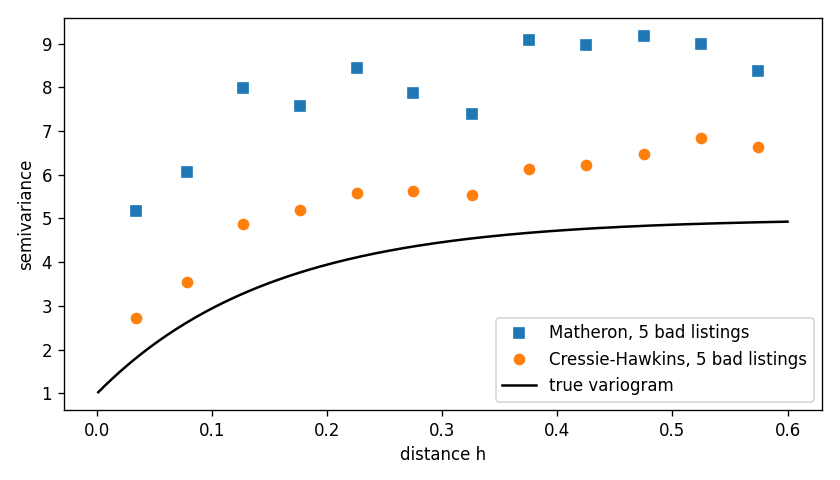
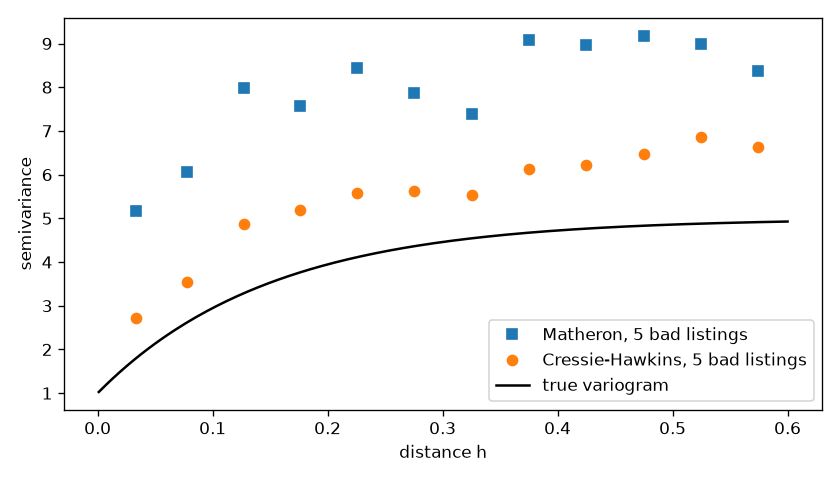
chapter 3 reviwed

diff --git a/spatial-data-analysis/current/chapters/ch03_empirical_variography.md b/spatial-data-analysis/current/chapters/ch03_empirical_variography.md
@@ -237,7 +237,7 @@ At short distances the north-south variogram is higher: 2.76 against 1.52 in the
 
 Two refinements are worth knowing.
 
-- **The rose diagram.** Computing directional variograms in many directions and recording, for each direction, the distance at which the variogram reaches a fixed level gives a set of points that, under geometric anisotropy, lie on an ellipse. Plotting them (often as a "rose" around the origin) shows the directions of longest and shortest reach, which are the eigenvectors of $\mathbf{G}$ in Section 2.6. Exercise 10 builds one.
+- **The rose diagram.** Computing directional variograms in many directions and recording, for each direction, the distance at which the variogram reaches a fixed level gives a set of points that, under geometric anisotropy, lie on an ellipse. Plotting them (often as a "rose" around the origin) shows the directions of longest and shortest reach, which are the eigenvectors of $\mathbf{G}$ in Section 2.6. Exercise 15 builds one.
 - **Zonal anisotropy.** Geometric anisotropy changes how fast the variogram rises in each direction but not the sill it reaches. Sometimes the sills themselves differ. If rents vary by neighborhood across the river but are similar for long stretches along it, the north-south variogram may keep climbing to a higher level than the east-west one. That is **zonal anisotropy**, and it cannot be produced by stretching coordinates. It is usually modeled by adding a second process that varies in one direction only (Exercise 7).
 
 ---
@@ -478,7 +478,7 @@ for name, wt in (("OLS", False), ("WLS", True)):
 | Cressie's weighted least squares | 3.919 | 1.342 | 0.186 |
 | Truth | 4 | 1 | 0.15 |
 
-Both fits are reasonable, and they are close to each other. Both put the range a little long and the nugget a little high. That is the honest result of one realization: the empirical variogram in Section 3.1.3 sits above the true curve between 0.10 and 0.25 and below it around 0.30, and any curve that follows the points inherits those wiggles. With a single map, the variogram is estimated with real uncertainty, and the parameters inherit it. Exercise 9 measures how much by repeating the fit over many simulated districts. Chapter 5 asks whether fitting the model directly to the data, by maximum likelihood, does better.
+Both fits are reasonable, and they are close to each other. Both put the range a little long and the nugget a little high. That is the honest result of one realization: the empirical variogram in Section 3.1.3 sits above the true curve between 0.10 and 0.25 and below it around 0.30, and any curve that follows the points inherits those wiggles. With a single map, the variogram is estimated with real uncertainty, and the parameters inherit it. Exercise 14 measures how much by repeating the fit over many simulated districts. Chapter 5 asks whether fitting the model directly to the data, by maximum likelihood, does better.
 
 ---
 
@@ -629,7 +629,7 @@ print(f"  {'OLS residuals':15s} Matern 3/2 WLS:  "
 | OLS residuals | Matérn, $\nu = 3/2$ | 2.907 | 1.965 | 0.087 | 0.415 |
 | Truth | Exponential | 4 | 1 | 0.15 | 0.449 |
 
-The raw-rent fit has run away, as Section 3.4.1 explained. The residual fit is close to the fit on the true errors, with a smaller partial sill, as Section 3.4.3 predicted. The Matérn fit to the same residuals splits the variance differently: a larger nugget and smaller partial sill, with a shorter practical range. Both curves pass close to the points (Exercise 12 compares their objective values), so the variogram alone does not settle which family is right. Chapter 5 compares families with likelihood-based criteria.
+The raw-rent fit has run away, as Section 3.4.1 explained. The residual fit is close to the fit on the true errors, with a smaller partial sill, as Section 3.4.3 predicted. The Matérn fit to the same residuals splits the variance differently: a larger nugget and smaller partial sill, with a shorter practical range. Both curves pass close to the points (Exercise 17 compares their objective values), so the variogram alone does not settle which family is right. Chapter 5 compares families with likelihood-based criteria.
 
 The next block draws the three empirical variograms with the true curve and the residual fit (Figure 3.1), the directional variograms of Section 3.1.4 (Figure 3.2), and the contaminated estimators of Section 3.2 (Figure 3.3). As in Chapter 2, run it from the top folder of the repository.
 
@@ -714,17 +714,27 @@ In Figure 3.3 the Matheron estimates (squares) jump to between 5 and 9 across al
 
 7. Let $u_1(\mathbf{s})$ be an isotropic process with sill $\sigma_1^2$, and let $u_2(\mathbf{s}) = v(s_{\text{north}})$ be a process that varies only in the north-south direction, with semivariogram $\gamma_v$ and sill $\sigma_2^2$, independent of $u_1$. Find the semivariogram of $u_1 + u_2$ for lags pointing due east and due north, and show that the two have different sills. This is zonal anisotropy.
 
+8. Section 3.1.1 defined Matheron's estimator for bin $k$ as $\hat{\gamma}(h_k) = \frac{1}{2\lvert N(h_k) \rvert}\sum_{(i,j) \in N(h_k)} (Y_i - Y_j)^2$. (a) Define the $n \times n$ symmetric adjacency matrix $\mathbf{A}_k$ for bin $k$, where $(\mathbf{A}_k)_{ij} = 1$ if $(i, j) \in N(h_k)$ or $(j, i) \in N(h_k)$, and $0$ otherwise. Let $\mathbf{D}_k = \operatorname{diag}(\mathbf{A}_k\mathbf{1}_n)$ be its diagonal degree matrix. Show that $\sum_{(i,j) \in N(h_k)} (Y_i - Y_j)^2 = \mathbf{Y}'(\mathbf{D}_k - \mathbf{A}_k)\mathbf{Y} = \mathbf{Y}'\mathbf{L}_k\mathbf{Y}$, where $\mathbf{L}_k$ is the graph Laplacian of bin $k$. (b) Using Tool 2 (Section 1.1.1), show that $\operatorname{E}[\hat{\gamma}(h_k)] = \frac{\operatorname{tr}(\mathbf{L}_k\boldsymbol{\Sigma}) + \boldsymbol{\mu}'\mathbf{L}_k\boldsymbol{\mu}}{2\lvert N(h_k) \rvert}$, and show that the mean term vanishes whenever the mean is constant ($\boldsymbol{\mu} = \mu\mathbf{1}_n$) because $\mathbf{L}_k\mathbf{1}_n = \mathbf{0}$. (c) Evaluate the trace $\operatorname{tr}(\mathbf{L}_k\boldsymbol{\Sigma})$ explicitly to recover the bin average of $\gamma$.
+
+9. Section 3.3.2 discussed why pairs sharing a listing are correlated. Suppose observations are Gaussian with covariance matrix $\boldsymbol{\Sigma}$. (a) For two distinct pairs $(1, 2)$ and $(1, 3)$ sharing location $1$, show that $\operatorname{Cov}(Y_1 - Y_2, Y_1 - Y_3) = \gamma(\mathbf{s}_1 - \mathbf{s}_3) + \gamma(\mathbf{s}_1 - \mathbf{s}_2) - \gamma(\mathbf{s}_2 - \mathbf{s}_3)$. (b) Using $\operatorname{Cov}(A^2, B^2) = 2\operatorname{Cov}(A, B)^2$ from Exercise 3, show that the covariance between the two squared differences is $2\left[\gamma(\mathbf{s}_1 - \mathbf{s}_3) + \gamma(\mathbf{s}_1 - \mathbf{s}_2) - \gamma(\mathbf{s}_2 - \mathbf{s}_3)\right]^2$. (c) For three locations forming an equilateral triangle of side $h$, evaluate this covariance in terms of $\gamma(h)$.
+
+10. Let $\mathbf{s}_1, \dots, \mathbf{s}_n$ be $n$ locations with semivariogram matrix $\boldsymbol{\Gamma}$ ($\Gamma_{ij} = \gamma(\mathbf{s}_i - \mathbf{s}_j)$, with zeros on the diagonal). (a) Using Section 2.2.4 ($\gamma(\mathbf{h}) = C(\mathbf{0}) - C(\mathbf{h})$), show that $\boldsymbol{\Gamma} = C(\mathbf{0})\mathbf{1}_n\mathbf{1}_n' - \boldsymbol{\Sigma}$. (b) For any vector $\mathbf{a}$ orthogonal to $\mathbf{1}_n$ ($\mathbf{a}'\mathbf{1}_n = 0$), show that $\mathbf{a}'\boldsymbol{\Gamma}\mathbf{a} = -\mathbf{a}'\boldsymbol{\Sigma}\mathbf{a} \le 0$. (c) Explain why this conditional negative definiteness guarantees that the matrix $\mathbf{B} = -\frac{1}{2}\mathbf{P}_c\boldsymbol{\Gamma}\mathbf{P}_c$ is positive semi-definite (where $\mathbf{P}_c = \mathbf{I}_n - \frac{1}{n}\mathbf{1}_n\mathbf{1}_n'$ is the centering matrix), and connect this to classical multidimensional scaling.
+
+11. Suppose $Y(\mathbf{s})$ is an intrinsically stationary point process with semivariogram $\gamma(h)$. In many remote sensing applications, an instrument records the spatial average of $Y$ over a square pixel $B(\mathbf{s})$ centered at $\mathbf{s}$: $Y_B(\mathbf{s}) = \frac{1}{\lvert B \rvert}\int_{B(\mathbf{s})} Y(\mathbf{u})\,d\mathbf{u}$. (a) Show that the semivariogram of the block-averaged process is $\gamma_B(\mathbf{h}) = \bar{\gamma}(B(\mathbf{s}), B(\mathbf{s}+\mathbf{h})) - \bar{\gamma}(B, B)$, where $\bar{\gamma}(B_1, B_2) = \frac{1}{\lvert B_1 \rvert \lvert B_2 \rvert}\int_{B_1}\int_{B_2}\gamma(\mathbf{u} - \mathbf{v})\,d\mathbf{u}\,d\mathbf{v}$. (b) Show that $\gamma_B(\mathbf{0}) = 0$, but the sill of $\gamma_B$ is strictly less than the sill of the original point process $\gamma$. Explain why area-averaging smooths out variation and reduces both the partial sill and the nugget (the change of support effect).
+
+12. Section 3.1.4 and Section 2.6 describe geometric anisotropy through the elliptical lag distance $h(\mathbf{G}) = \sqrt{\mathbf{h}'\mathbf{G}\mathbf{h}}$. (a) Let $\mathbf{G} = \mathbf{U}\boldsymbol{\Lambda}\mathbf{U}'$ with rotation matrix $\mathbf{U} = \begin{bmatrix} \cos\theta & -\sin\theta \\ \sin\theta & \cos\theta \end{bmatrix}$ and $\boldsymbol{\Lambda} = \operatorname{diag}(\lambda_1, \lambda_2)$ with $0 < \lambda_1 < \lambda_2$. Show that the contour of constant semivariance $\gamma(h(\mathbf{G})) = c$ forms an ellipse $\mathbf{h}'\mathbf{G}\mathbf{h} = h_0^2$ in lag space $\mathbf{h} = (h_x, h_y)'$. (b) Find the lengths of the semi-major and semi-minor axes of this ellipse in terms of $h_0, \lambda_1, \lambda_2$. (c) Verify that the direction of longest reach (the semi-major axis of the ellipse) points in direction $\theta$ with length $h_0/\sqrt{\lambda_1}$, confirming that the smallest eigenvalue of $\mathbf{G}$ corresponds to the longest spatial range.
+
 **Computational and simulation**
 
-8. Recompute the rent district's empirical variogram with bin widths 0.025, 0.05, and 0.1, and refit the exponential model by Cressie's weighted least squares each time. How sensitive are $\hat{\sigma}^2$, $\hat{\tau}^2$, and $\hat{\phi}$ to the bin width?
+13. Recompute the rent district's empirical variogram with bin widths 0.025, 0.05, and 0.1, and refit the exponential model by Cressie's weighted least squares each time. How sensitive are $\hat{\sigma}^2$, $\hat{\tau}^2$, and $\hat{\phi}$ to the bin width?
 
-9. Keep the 250 listing locations fixed, simulate 200 new values of $u + \varepsilon$, and fit the exponential model to each by both ordinary and weighted least squares. Report the mean and standard deviation of $\hat{\phi}$ for each method. Does weighting reduce the variability?
+14. Keep the 250 listing locations fixed, simulate 200 new values of $u + \varepsilon$, and fit the exponential model to each by both ordinary and weighted least squares. Report the mean and standard deviation of $\hat{\phi}$ for each method. Does weighting reduce the variability?
 
-10. For the anisotropic field of Section 3.1.4, compute directional variograms at 0, 45, 90, and 135 degrees. For each direction, find (by linear interpolation between bins) the distance at which the variogram first reaches 3.5. Plot these distances as points at the corresponding angles and their opposites, and compare the shape with the ellipse implied by $\mathbf{G}$.
+15. For the anisotropic field of Section 3.1.4, compute directional variograms at 0, 45, 90, and 135 degrees. For each direction, find (by linear interpolation between bins) the distance at which the variogram first reaches 3.5. Plot these distances as points at the corresponding angles and their opposites, and compare the shape with the ellipse implied by $\mathbf{G}$.
 
-11. Repeat the outlier experiment of Section 3.2 with 1, 2, 5, 10, and 20 bad listings. Plot the average increase of each estimator against the number of bad listings.
+16. Repeat the outlier experiment of Section 3.2 with 1, 2, 5, 10, and 20 bad listings. Plot the average increase of each estimator against the number of bad listings.
 
-12. Compute the weighted least squares objective at the fitted values for the exponential and Matérn $\nu = 3/2$ fits to the OLS residuals in Section 3.5.1. Then fit the Matérn model with $\nu = 5/2$. Can the objective values be used to choose among the families? Why or why not?
+17. Compute the weighted least squares objective at the fitted values for the exponential and Matérn $\nu = 3/2$ fits to the OLS residuals in Section 3.5.1. Then fit the Matérn model with $\nu = 5/2$. Can the objective values be used to choose among the families? Why or why not?
 
 ---
 
